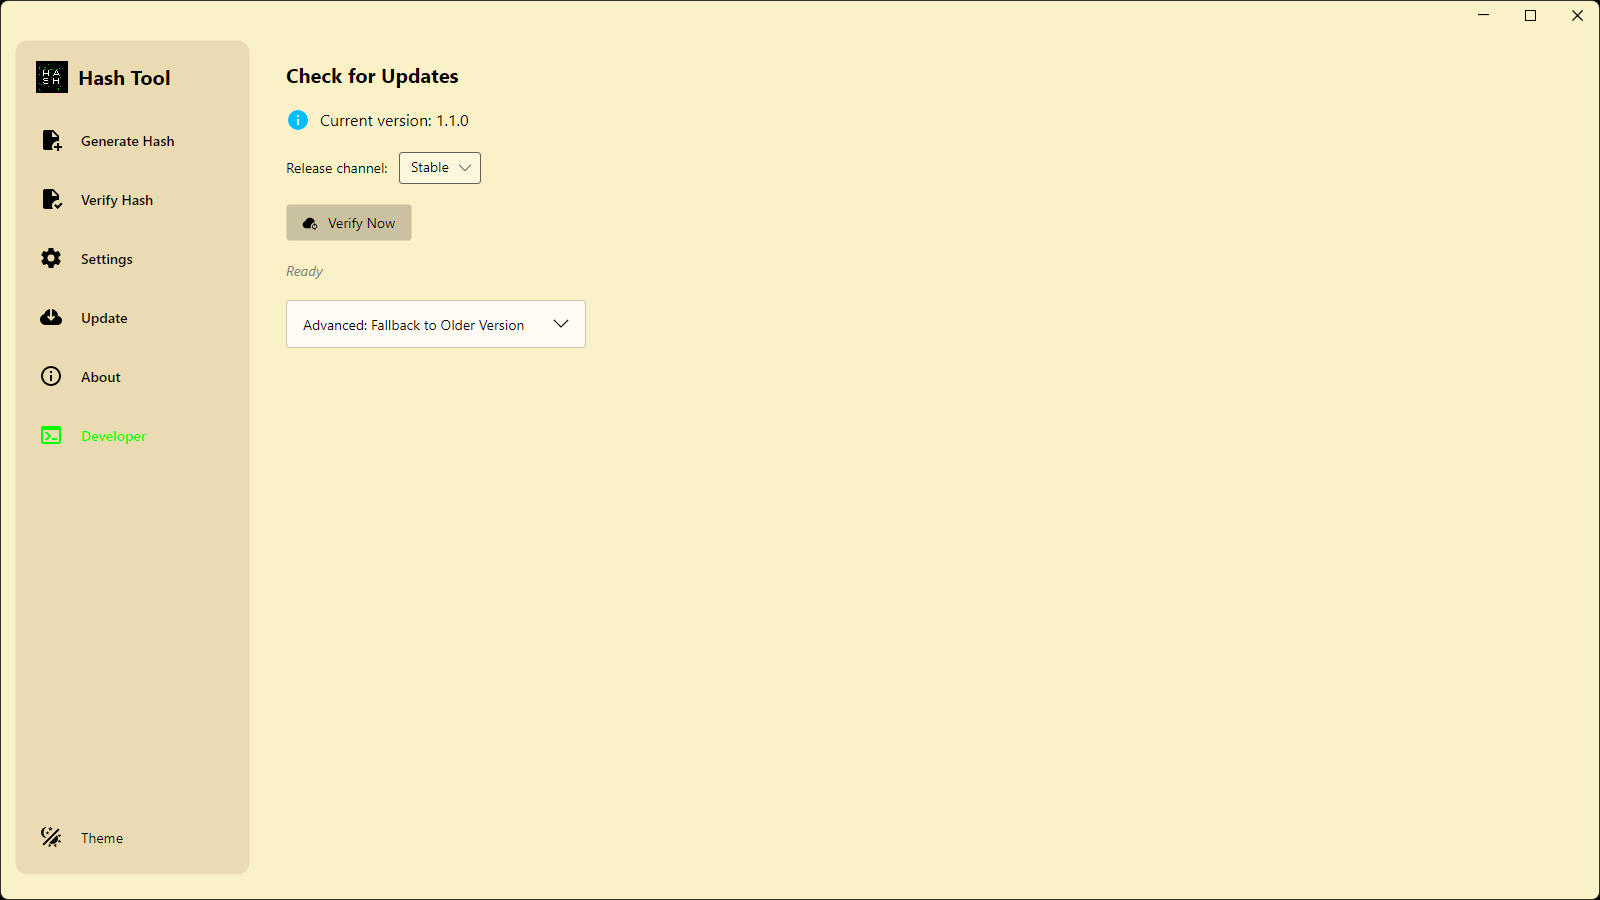
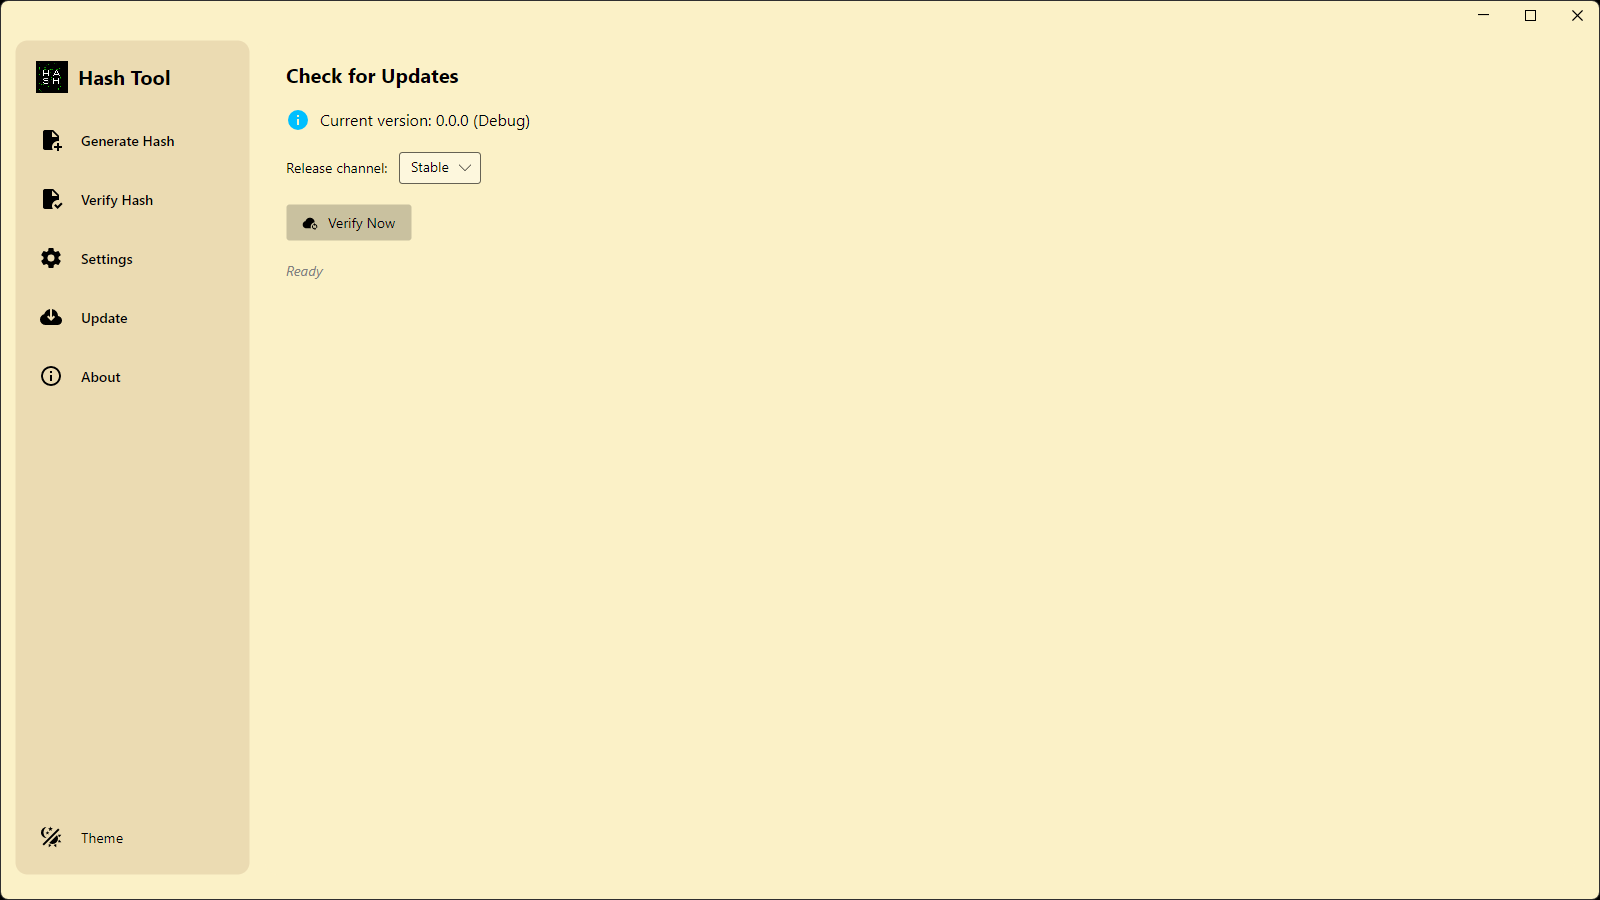
bump: update version to 1.1.2 and reflect changes in documentation

Changed region(s): [[0.1562, 0.3111, 0.375, 0.4044], [0.2812, 0.1244, 0.3438, 0.1556], [0.0312, 0.4667, 0.0938, 0.4978]]

diff --git a/Program.cs b/Program.cs
@@ -11,9 +11,6 @@ namespace CheckHash;
 
 internal sealed class Program
 {
-    // Initialization code. Don't use any Avalonia, third-party APIs or any
-    // SynchronizationContext-reliant code before AppMain is called: things aren't initialized
-    // yet and stuff might break.
     [STAThread]
     public static void Main(string[] args)
     {
@@ -51,7 +48,6 @@ internal sealed class Program
         }
         catch (Exception ex)
         {
-            // Ignore startup errors to ensure app still tries to launch, but log them
             LoggerService.Instance.Log($"Startup error: {ex.Message}", LogLevel.Error);
         }
 
@@ -75,7 +71,6 @@ internal sealed class Program
         }
     }
 
-    // Avalonia configuration, don't remove; also used by visual designer.
     public static AppBuilder BuildAvaloniaApp()
     {
         return AppBuilder.Configure<App>()

diff --git a/ViewModels/AboutViewModel.cs b/ViewModels/AboutViewModel.cs
@@ -40,7 +40,7 @@ public partial class AboutViewModel : ObservableObject
     // Basic Info
     public string AppName => "Hash Tool";
     public string Version => UpdateService.Instance.CurrentVersion;
-    public string AuthorName => "Poli0981"; // My name :D
+    public string AuthorName => "Poli0981";
     public string GitHubProfile => "https://github.com/poli0981";
     public string Copyright => $"© 2026 {AuthorName}. All rights reserved.";
 

diff --git a/ViewLocator.cs b/ViewLocator.cs
@@ -6,9 +6,6 @@ using CommunityToolkit.Mvvm.ComponentModel;
 
 namespace CheckHash;
 
-/// <summary>
-///     Given a view model, returns the corresponding view if possible.
-/// </summary>
 [RequiresUnreferencedCode(
     "Default implementation of ViewLocator involves reflection which may be trimmed away.",
     Url = "https://docs.avaloniaui.net/docs/concepts/view-locator")]

diff --git a/README.md b/README.md
@@ -1,6 +1,7 @@
 # HashTool 🛠
 
-[![Version](https://img.shields.io/badge/version-1.1.1-blue.svg)](https://github.com/poli0981/HashTool/releases/tag/1.1.1) [![License](https://img.shields.io/badge/license-MIT-green.svg)](LICENSE) [![Downloads](https://img.shields.io/github/downloads/poli0981/HashTool/total.svg)](https://github.com/poli0981/HashTool/releases)
+[![Version](https://img.shields.io/badge/version-1.1.2-blue.svg)](https://github.com/poli0981/HashTool/releases/tag/1.1.2) [![License](https://img.shields.io/badge/license-MIT-green.svg)](LICENSE) 
+[![Downloads](https://img.shields.io/github/downloads/poli0981/HashTool/total.svg)](https://github.com/poli0981/HashTool/releases)
 
 **A user-friendly, cross-platform desktop app (Windows & macOS) for generating, verifying, and managing file hashes — no terminal commands required.**
 

diff --git a/SECURITY.md b/SECURITY.md
@@ -1,6 +1,6 @@
 # Security Policy for HashTool
 
-**Version 1.1.1**  
+**Version 1.1.2**  
 **Last updated: February 2026**
 
 HashTool is a free, open-source desktop application built with C# (.NET 10) and Avalonia UI. It runs **100% offline** (except optional update check via GitHub), processes files locally, and has no network server components.

diff --git a/docs/EULA.md b/docs/EULA.md
@@ -1,6 +1,6 @@
 # End User License Agreement (EULA) for Hash Tool
 
-**Version 1.1.1**  
+**Version 1.1.2**  
 **Last updated: February 2026**
 
 HashTool is a free, open-source desktop application licensed under the MIT License (see [LICENSE](LICENSE) file).

diff --git a/docs/ToS.md b/docs/ToS.md
@@ -1,6 +1,6 @@
 # Terms of Service (ToS) for HashTool
 
-**Version 1.1.1**  
+**Version 1.1.2**  
 **Last updated: February 2026**
 
 HashTool is free, open-source desktop software distributed under the **MIT License** (see LICENSE file for full text).

diff --git a/docs/PrivacyPolicy.md b/docs/PrivacyPolicy.md
@@ -1,6 +1,6 @@
 # Privacy Policy for HashTool
 
-**Version 1.1.1**  
+**Version 1.1.2**  
 **Last updated: February 2026**
 
 HashTool is a free, open-source desktop application distributed under the MIT License (see LICENSE file).

diff --git a/docs/DISCLAIMER.md b/docs/DISCLAIMER.md
@@ -1,6 +1,6 @@
 # Disclaimer for HashTool
 
-**Version 1.1.1**  
+**Version 1.1.2**  
 **Last updated: February 2026**
 
 HashTool is free, open-source software distributed under the MIT License (see LICENSE file).
